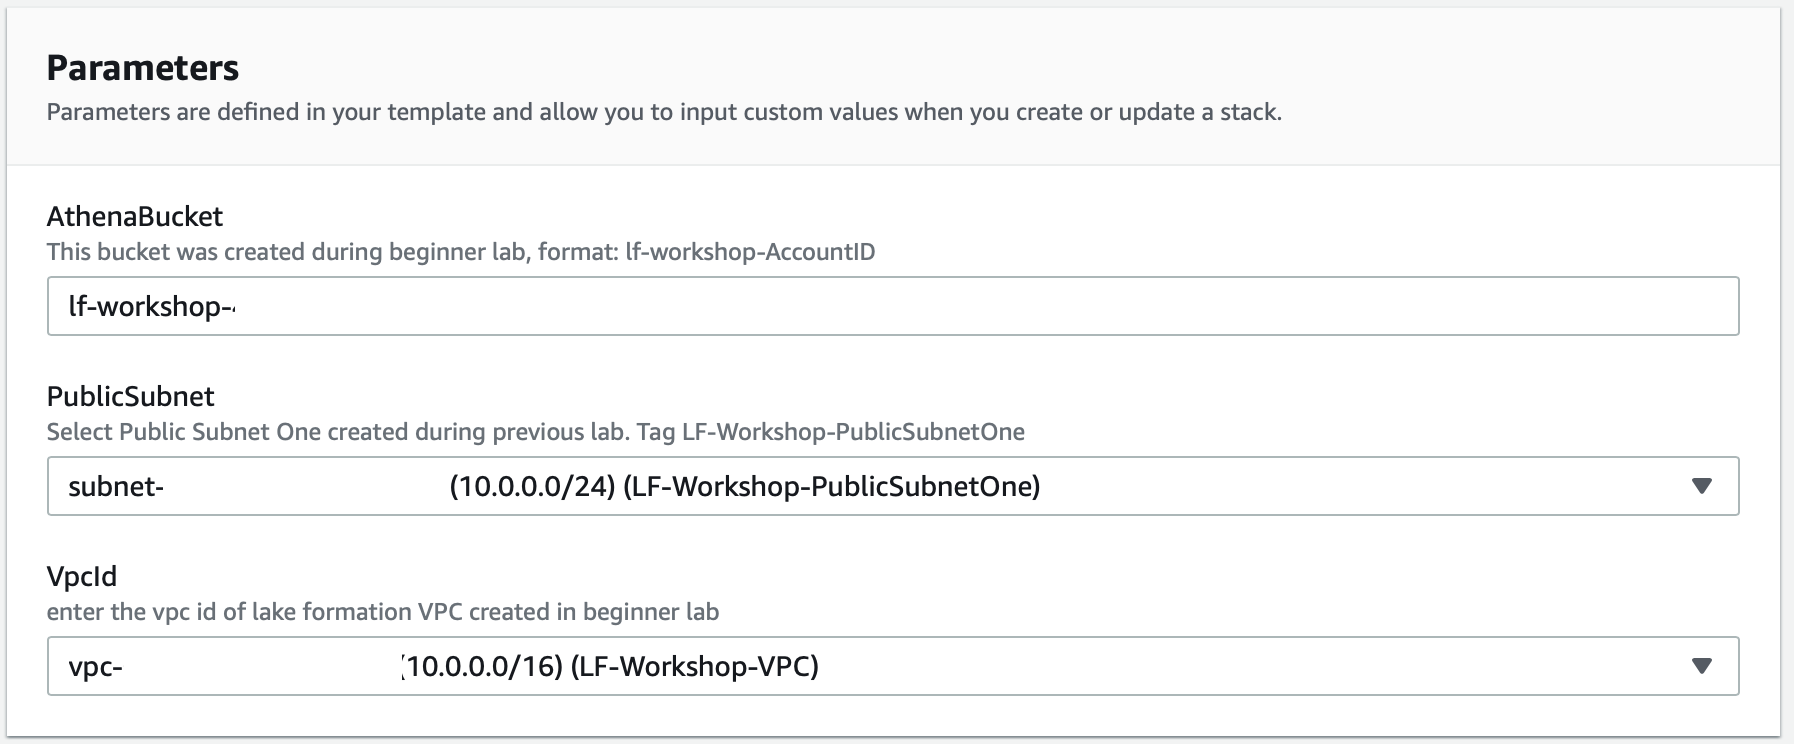
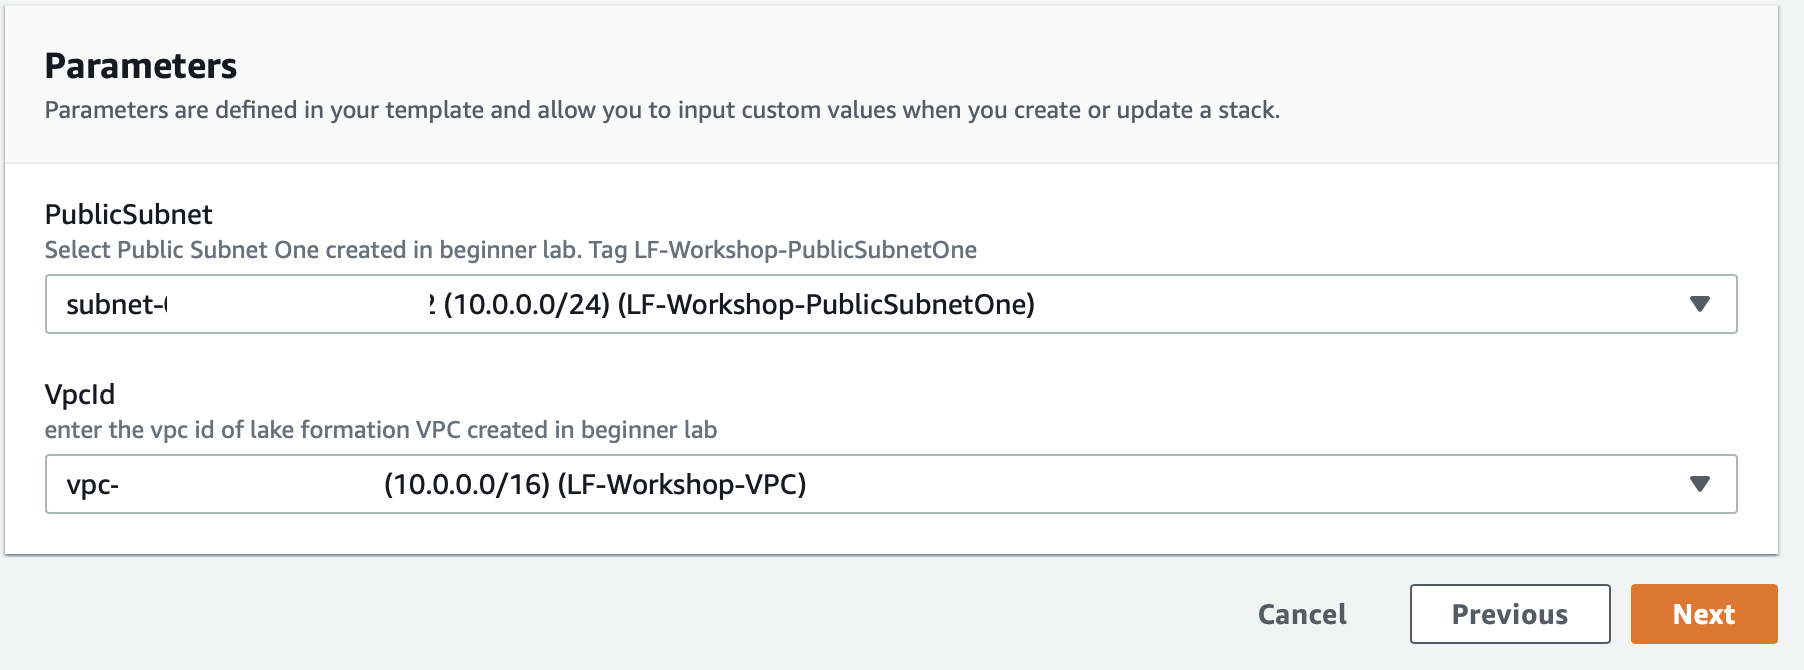
fixed cfn, updated images, updated site content

diff --git a/website/content/70-additional-labs/701-glue-to-lakeformation-migration/7014-Migrate Permissions to LakeFormation.md b/website/content/70-additional-labs/701-glue-to-lakeformation-migration/7014-Migrate Permissions to LakeFormation.md
@@ -55,7 +55,7 @@ weight = 7014
 <ol start="1">
 
 <h4>Step 3: Give Users IAM Permissions to Use Lake Formation</h4>
-Now, give the two users permissions to use Lake Formation via the IAM policies created. Attach <strong>LakeFormationDataAccess</strong> policy to the  two users: <b>glue-admin and glue-dev-user</b>. At this point in workshop, user policy list should look like:
+Now, give the two users permissions to use Lake Formation via the IAM policies created. Attach <strong>LakeFormationDataAccess</strong> policy to the  two users: <b>glue-admin and glue-dev-user</b>. At this point in workshop, user policy list will look somewhat like the image below :
 
 
 <img src="/images/gluemigration019.png" style="margin:15px 0px; border:1px solid black" />
@@ -87,7 +87,7 @@ Now, give the two users permissions to use Lake Formation via the IAM policies c
 
 
 
-<li>Output will be a json file that gives list of IAM principles with access to that S3 location.Now revoke <b>IAMAllowedPrincipals</b> on each table and database that you identified for the location </li>
+<li>Output will be a json file that gives list of IAM principles with access to that S3 location.Now revoke ""Super" permission from <b>IAMAllowedPrincipals</b> on each table and database that you identified for the location </li>
 
 <li>In the navigation pane, choose&nbsp;<strong>Tables</strong></li>
 <ol>
@@ -140,7 +140,7 @@ Now, give the two users permissions to use Lake Formation via the IAM policies c
 
 <ol start="1">
 <h4>Step 6: Give Users a New IAM Policy for Future Data Lake Access</h4>
-Grant users access to additional databases or tables in the future by adding policy <strong>GlueFullReadAccess</strong> with each user. It will look like
+Grant users access to additional databases or tables in the future by adding policy <strong>GlueFullReadAccess</strong> with each user. It will look somewhat like the image below:
 <img src="/images/gluemigration030.png" style="margin:15px 0px; border:1px solid black" />
 
 </ol>

diff --git a/website/content/70-additional-labs/701-glue-to-lakeformation-migration/7012-LabPreparation.md b/website/content/70-additional-labs/701-glue-to-lakeformation-migration/7012-LabPreparation.md
@@ -11,7 +11,7 @@ weight = 7012
 <li>Run the Cfn template as <strong>lf-admin</strong>, <strong>Password</strong>= Password1!</li>
  <a href="https://console.aws.amazon.com/cloudformation/home?region=us-east-1#/stacks/new?stackName=Lake-Formation-Migration&templateURL=https://aws-data-analytics-workshops.s3.amazonaws.com/lake-formation-workshop/cfn/lf-gluetolfmigration.template" target="_blank"><img src="/images/LaunchStack.svg" title="LF Migration" width="140" height="60" style="margin:10px 0px"/></a>
     <b>NOTE:</b> This template is created for the us-east-1 region (N. Virginia) and will not work in other regions.<br/>
-    Enter the 3 variables as shown in image below, these were created as part of the beginner lab.
+    Enter the 2 variables as shown in image below, these were created as part of the beginner lab.
 
     <img src="/images/gluemigration001.png" style="margin:15px 0px; border:1px solid black"  vertical-align:middle/>
 </ol>
@@ -23,7 +23,7 @@ weight = 7012
 <li>1 Role: AWSGlueServiceRole-gluedemo</li>
 <li>Cloud9 service to use CLI commands</li>
 <li>IAM Policies: AthenaAccessPolicy, LakeFormationDataAccess, GlueFullReadAccess, GlueProdPolicy, GlueTestPolicy, GlueCrawlerPolicy</li>
-<li>1 S3 bucket</li>
+<li>2 S3 buckets</li>
 <li>S3 bucket policies</li>
 <li>2 Athena Named Query: 1 for Prod and 1 for Test</li>
 <li>2 Glue Databases: 1 for Prod and 1 for Test</li>

diff --git a/website/content/70-additional-labs/701-glue-to-lakeformation-migration/7013-Using Glue Permissons.md b/website/content/70-additional-labs/701-glue-to-lakeformation-migration/7013-Using Glue Permissons.md
@@ -11,7 +11,7 @@ weight = 7013
 We will now use glue model to access data from Athena
 
 <li>Login as <b>glue-admin</b> in Athena, this user can only see Prod database and table</li>
-<li>Configure S3 bucket (<strong>lf-workshop-[AccountID]</strong>) for Athena query</li>
+<li>Configure S3 bucket (<strong>lf-data-lake-bucket-athenaresults-[AccountID]</strong>) for Athena query</li>
 <img src="/images/gluemigration013.png" style="margin:15px 0px; border:1px solid black" width="700" height="400"/>
 </ol>
 
